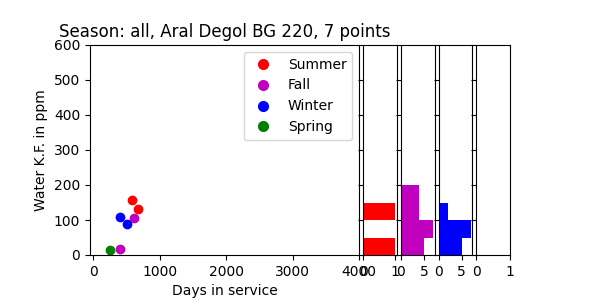
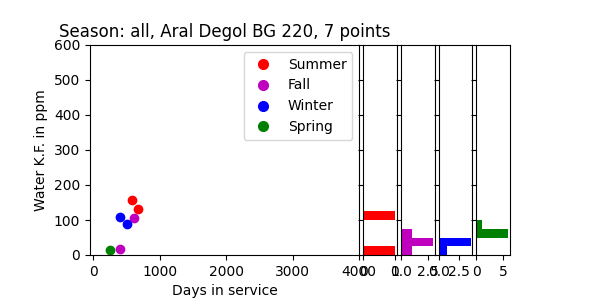
Sep 29, 2022, 6:03 PM

Changed region(s): [[0.6, 0.6, 0.87, 0.93], [0.6, 0.78, 0.66, 0.84], [0.84, 0.87, 0.87, 0.93]]

diff --git a/project/dataset.py b/project/dataset.py
@@ -191,9 +191,9 @@ class Dataset:
                     ax.set_xlim(-50, 4000)
                     ax.set_ylim(0, 600)
                     if len(d1["x_values"]) > 150:
-                        binwidth = 25
+                        binwidth = 20
                     else:
-                        binwidth = 50
+                        binwidth = 25
                 elif p == "Neutralisationszahl":
                     ylabelstr = "Acid number in mgkOH/gOil"
                     save_name = f"AN_vs_days_all_{noil}.png"
